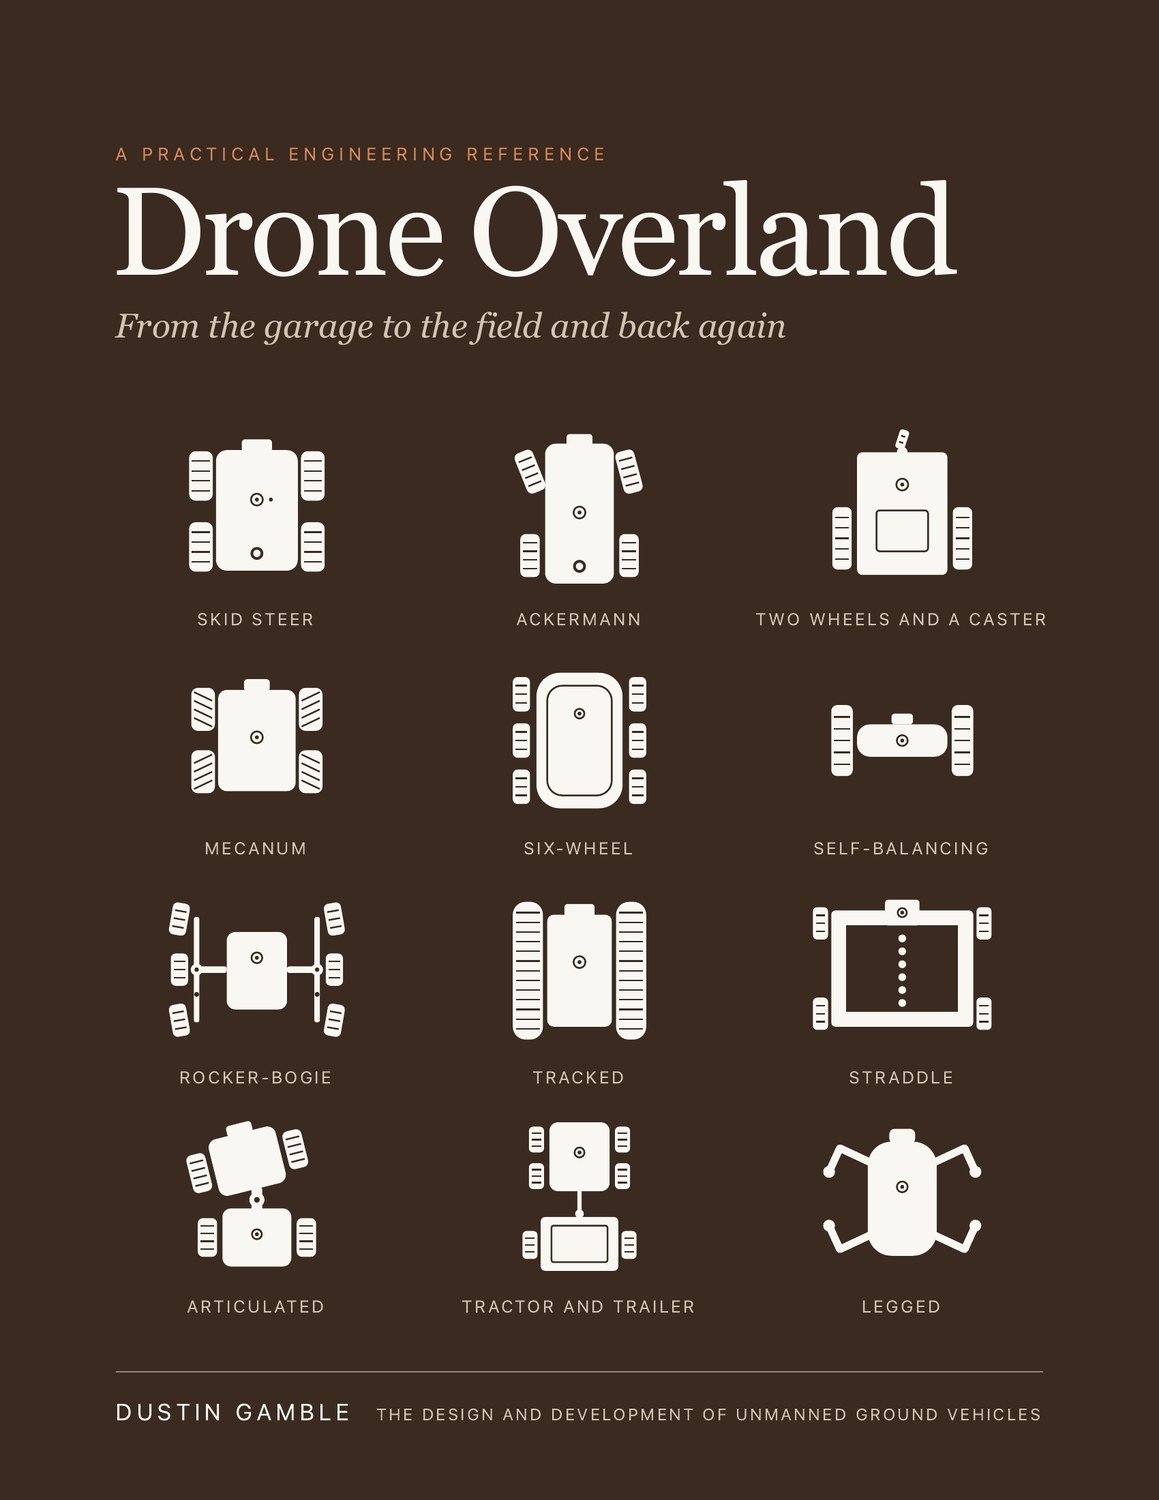
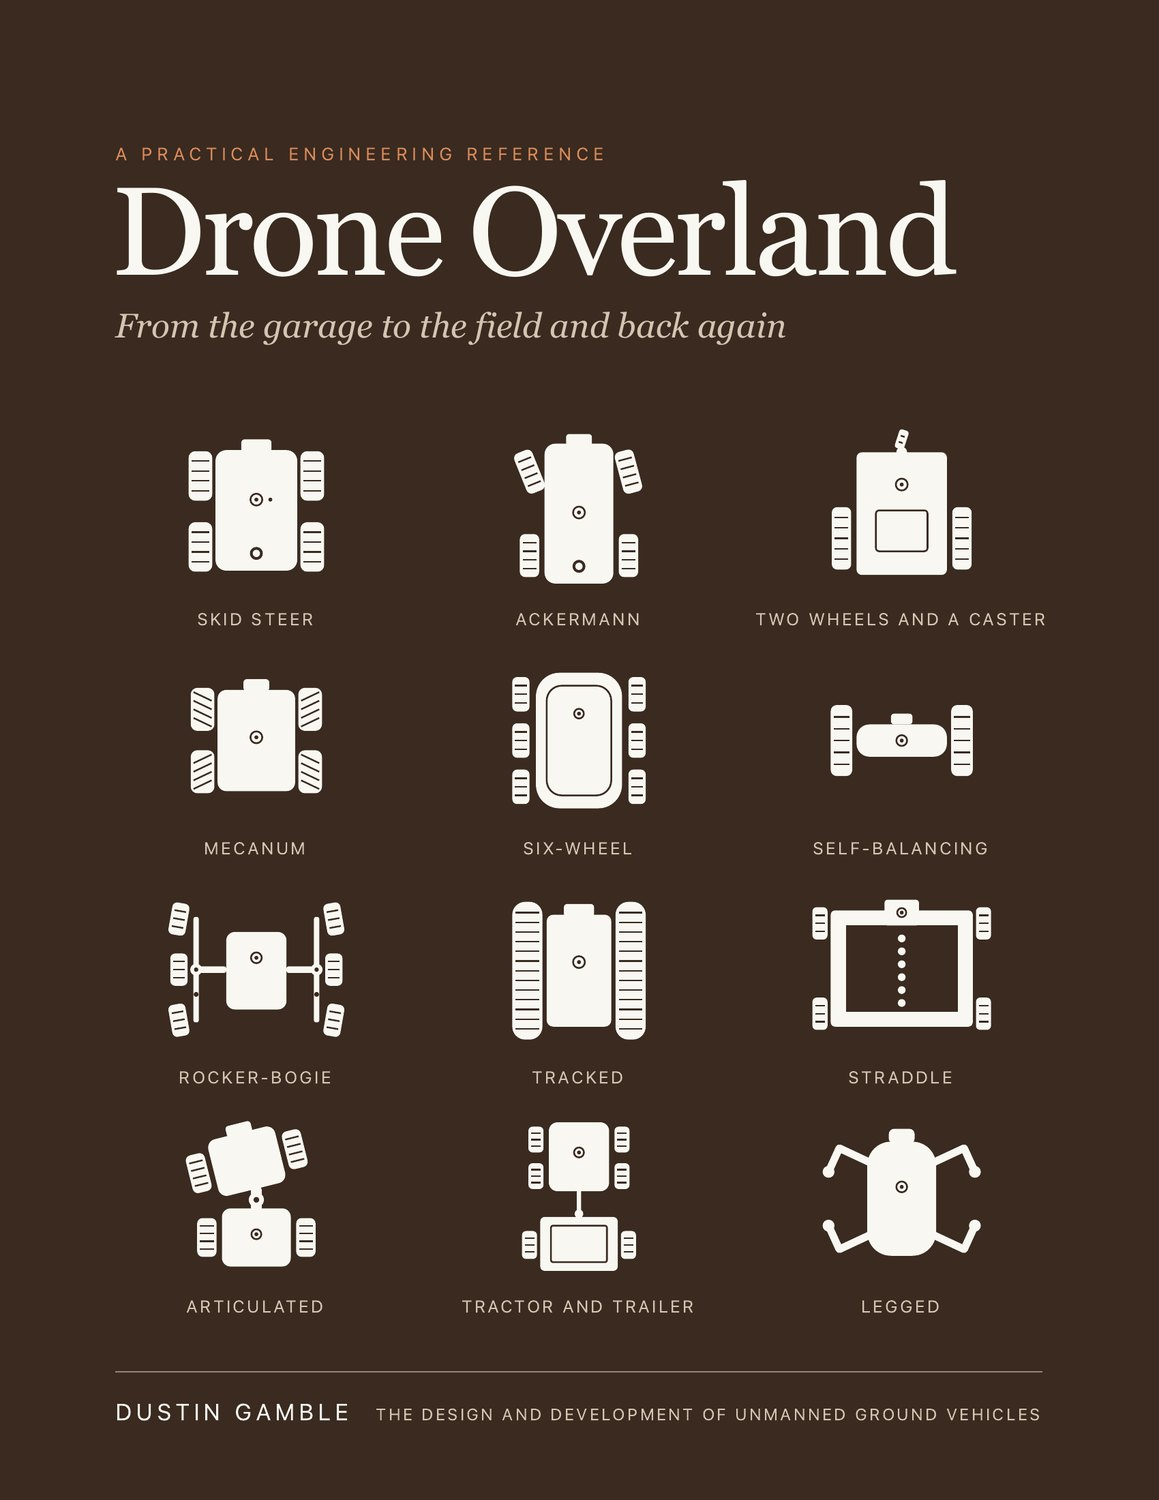
Lay the books out as on gamble.systems; add Drag, Small and Elsewhere
The home page's stack of book cards becomes a lineup of the eight drone
books with their names, a line for the Field Guide's Amazon link, and the
two novels beside it. /books/ opens with the fan of covers, with the book
on sale on top, above the catalogue. Shelf-sized covers keep the home page
light; a book joins the lineup through `series`.

Drone Drag, Drone Small and Drone Elsewhere get pages: cover, a short
summary from their listings, and status, with no sample pages. Underway
and Overland get their current covers. Status text brought up to date
(Sketchbook, Mechanisms and Overland are drawn; Underway is 49 chapters).
The book on sale sorts first and the novels last.

diff --git a/content/books/drone-underway.md b/content/books/drone-underway.md
@@ -5,10 +5,11 @@ date: "2026-10-18"
 summary: "Drone Field Guide's method taken to the water, for small unmanned boats: what to size, what to seal, and what to do when it stops on the far shore."
 cover: "/images/books/drone-underway-cover.jpg"
 status: "In progress"
-meta: "Field guide · 36 chapters · 8.5 × 11 in"
+meta: "Field guide · 49 chapters · 8.5 × 11 in"
 tags: ["Unmanned Boats", "Marine", "Reference"]
+series: "Drone Field Guide"
 featured: true
-order: 5
+order: 3
 draft: false
 ---
 
@@ -20,7 +21,7 @@ The same method, on the water.
 
 A displacement hull has a speed its waterline sets and nothing you can buy moves; below it a pack lasts hours, above it minutes. Two thrusters steer and one drifts. Weed is the stall of the water. The mission begins at the beach and ends at the beach, and the beach is where boats are lost.
 
-Thirty-six chapters, from reading a hull across the ramp to the second boat. Each opens with its design decision and closes with a rule of thumb, with a worked example between them. One 1.5 m survey catamaran is sized through the whole book and never built, so that every number comes from the method. Quick-reference cards for the bench and the shore, and the forms, blank, at the back.
+Forty-nine chapters, from reading a hull across the ramp to the second boat. Each opens with its design decision and closes with a rule of thumb, with a worked example between them. One 1.5 m survey catamaran is sized through the whole book and never built, so that every number comes from the method. Quick-reference cards for the bench and the shore, and the forms, blank, at the back.
 
 ## Sample pages
 
@@ -33,6 +34,6 @@ Thirty-six chapters, from reading a hull across the ramp to the second boat. Eac
 
 ## Status
 
-In progress. All 36 chapters are written and every plate is drawn; the draft runs about 170 pages. It still needs my edit and a final review before it prints, and it is not on sale yet.
+In progress. All 49 chapters are written and every plate is drawn; the draft runs about 300 pages. It still needs my edit and a final review before it prints, and it is not on sale yet.
 
 Written from my outline, rules and numbers with an AI writing assistant; every figure is computed from the worked example's own inputs, and an AI illustrator drew the plates from my briefs.

diff --git a/content/books/drone-small.md b/content/books/drone-small.md
@@ -1,0 +1,26 @@
+---
+title: "Drone Small"
+subtitle: "A field guide to aircraft under 250 grams, from the kitchen table to the living room and back again"
+date: "2026-11-01"
+summary: "Drone Field Guide's method taken down to the kitchen table, for aircraft under 250 grams: what to build, what to weigh, and why it flies when it should not."
+cover: "/images/books/drone-small-cover.jpg"
+status: "In progress"
+meta: "Field guide · 47 chapters · 8.5 × 11 in"
+tags: ["Micro Aircraft", "Indoor Flight", "Reference"]
+series: "Drone Field Guide"
+featured: true
+order: 7
+draft: false
+---
+
+## About the book
+
+What to build, what to weigh, and why it flies when it should not.
+
+*Drone Small* takes the method of [Drone Field Guide](https://gamble.systems/drone-field-guide/) down to the kitchen table: find the one number that decides the machine, work it in plain sentences, and write the prediction on a card before the first flight. The air gets thicker as you get smaller, small things bounce, and below a gram flapping wins.
+
+Forty-seven chapters, from the whoop and its four minutes to a rubber ornithopter, a duration model under a gym roof, a monocopter, a blimp, and a model that flies on sunlight alone.
+
+## Status
+
+In progress. All 47 chapters are written and the draft runs about 240 pages. It is not on sale yet.

diff --git a/content/books/drone-drag.md b/content/books/drone-drag.md
@@ -1,0 +1,26 @@
+---
+title: "Drone Drag"
+subtitle: "A field guide to where the watts go, from the garage to the wind and back again"
+date: "2026-11-01"
+summary: "A companion to Drone Field Guide, and a price list for the wind: what every part of a small aircraft costs in drag, and how to measure it yourself."
+cover: "/images/books/drone-drag-cover.jpg"
+status: "In progress"
+meta: "Field guide · 54 chapters · 8.5 × 11 in"
+tags: ["UAV", "Aerodynamics", "Reference"]
+series: "Drone Field Guide"
+featured: true
+order: 5
+draft: false
+---
+
+## About the book
+
+Every part of a small aircraft costs watts. This book says how many.
+
+Booms, skids, antennas, camera gimbals, exposed motors, stopped rotors and everything else that gets bolted on, each with its price in square centimeters and in watts at the battery. Drag handbooks were built on full-size aircraft. A drone's parts fly at Reynolds numbers one to three orders lower, in propeller wash, and many of the old rules go wrong there.
+
+It closes with how to measure drag yourself: a glide, a flight log, a rig on a roof rack and a tunnel on a bench, and with the tests nobody has run yet.
+
+## Status
+
+In progress. All 54 chapters are written and the review copy runs about 415 pages. It is not on sale yet.

diff --git a/content/books/drone-elsewhere.md b/content/books/drone-elsewhere.md
@@ -1,0 +1,26 @@
+---
+title: "Drone Elsewhere"
+subtitle: "A field guide to flying, rolling and swimming on other worlds"
+date: "2026-11-01"
+summary: "Drone Field Guide's method taken to twelve worlds, from Mercury to Pluto: what could fly, roll and swim there, and the number that decides each concept machine."
+cover: "/images/books/drone-elsewhere-cover.jpg"
+status: "In progress"
+meta: "Field guide · 42 chapters · 8.5 × 11 in"
+tags: ["Concepts", "Planetary", "Reference"]
+series: "Drone Field Guide"
+featured: true
+order: 8
+draft: false
+---
+
+## About the book
+
+Every world sets its own price for moving.
+
+*Drone Elsewhere* takes the method of [Drone Field Guide](https://gamble.systems/drone-field-guide/) to twelve worlds, from Mercury to Pluto, with Earth among them as the yardstick. Each world gets three chapters: the place, how its physics works on a machine, and the concept machines that would work there, from cloud balloons and melt probes to hoppers and a methane sailboat.
+
+These are concepts, each sized on paper from numbers printed beside it.
+
+## Status
+
+In progress. All 42 chapters are written and the draft runs about 265 pages. It is not on sale yet.

diff --git a/content/books/drone-mechanisms.md b/content/books/drone-mechanisms.md
@@ -7,6 +7,7 @@ cover: "/images/books/drone-mechanisms-cover.jpg"
 status: "In progress"
 meta: "Book of parts · 1,003 mechanisms · 8.5 × 11 in"
 tags: ["UAV", "Mechanisms", "Design"]
+series: "Drone Field Guide"
 featured: true
 order: 4
 draft: false
@@ -43,7 +44,7 @@ Every mechanism is drawn so the trick can be seen at a glance, open and shut, fo
 
 ## Status
 
-In progress. All 1,003 mechanisms are written, across 25 chapters, and the review copy runs about 300 pages. The plates are still being drawn, and each one is checked against a single question before it goes in: would the mechanism work as drawn. It is not on sale yet.
+All 1,003 mechanisms are written and drawn, across 25 chapters, and the book runs about 305 pages. Each plate was checked against a single question before it went in: would the mechanism work as drawn. It is in its final checks and not on sale yet.
 
 The numbers are first-order estimates with their conditions. Every entry reads *Drawn, not built* until I build one at home and measure it.
 

diff --git a/content/books/drone-sketchbook.md b/content/books/drone-sketchbook.md
@@ -7,8 +7,9 @@ cover: "/images/books/drone-sketchbook-cover.jpg"
 status: "In progress"
 meta: "Concept book · 222 designs · 8.5 × 11 in"
 tags: ["UAV", "Aircraft Design", "Concepts"]
+series: "Drone Field Guide"
 featured: true
-order: 3
+order: 2
 draft: false
 ---
 
@@ -42,6 +43,6 @@ The designs are grouped by the constraint that forced the shape, not by what the
 
 ## Status
 
-In progress. All 222 designs are written, across 24 categories, and the layout proof runs about 260 pages. The plates are still being drawn, so it is not ready to print.
+All 222 designs are written and drawn, across 24 categories, and the book runs 260 pages. It is in its final checks and not on sale yet.
 
 It was made the way Drone Field Guide was made. I set the categories, the designs, and the number that decides each one. An AI writing assistant drafted the pages from that direction, and an AI illustrator drew the plates from my briefs. None of the plates depicts a real aircraft or program.

diff --git a/content/books/drone-overland.md b/content/books/drone-overland.md
@@ -7,6 +7,7 @@ cover: "/images/books/drone-overland-cover.jpg"
 status: "In progress"
 meta: "Field guide · 36 chapters · 8.5 × 11 in"
 tags: ["Rovers", "Robotics", "Reference"]
+series: "Drone Field Guide"
 featured: true
 order: 6
 draft: false
@@ -33,6 +34,6 @@ Thirty-six chapters, from reading a chassis across a parking lot to the second r
 
 ## Status
 
-In progress. All 36 chapters are written and the draft runs about 175 pages; the plates are still being drawn. It still needs my edit and a final review before it prints, and it is not on sale yet.
+In progress. All 36 chapters are written and every plate is drawn; the draft runs about 215 pages. It still needs my edit and a final review before it prints, and it is not on sale yet.
 
 Written from my outline, rules and numbers with an AI writing assistant; every figure is computed from the worked example's own inputs, and an AI illustrator draws the plates from my briefs.

diff --git a/content/books/drone-field-guide.md b/content/books/drone-field-guide.md
@@ -7,8 +7,9 @@ cover: "/images/books/drone-field-guide-cover.png"
 status: "Paperback · available now"
 meta: "Reference · 77 chapters · 314 pages · 8.5 × 11 in"
 tags: ["UAV", "Aircraft Design", "Reference"]
+series: "Drone Field Guide"
 featured: true
-order: 2
+order: 1
 draft: false
 link: "https://gamble.systems/drone-field-guide/"
 buy:

diff --git a/content/books/ai-fusion.md b/content/books/ai-fusion.md
@@ -8,7 +8,7 @@ status: "In progress"
 meta: "Novel · ~75,000 words"
 tags: ["Fiction", "Near-future", "AI"]
 featured: true
-order: 1
+order: 9
 draft: false
 ---
 

diff --git a/content/books/skippy.md b/content/books/skippy.md
@@ -8,7 +8,7 @@ status: "Fan fiction"
 meta: "Novel in progress"
 tags: ["Fan Fiction", "Sci-Fi", "Tribute"]
 featured: true
-order: 7
+order: 10
 draft: false
 ---
 
